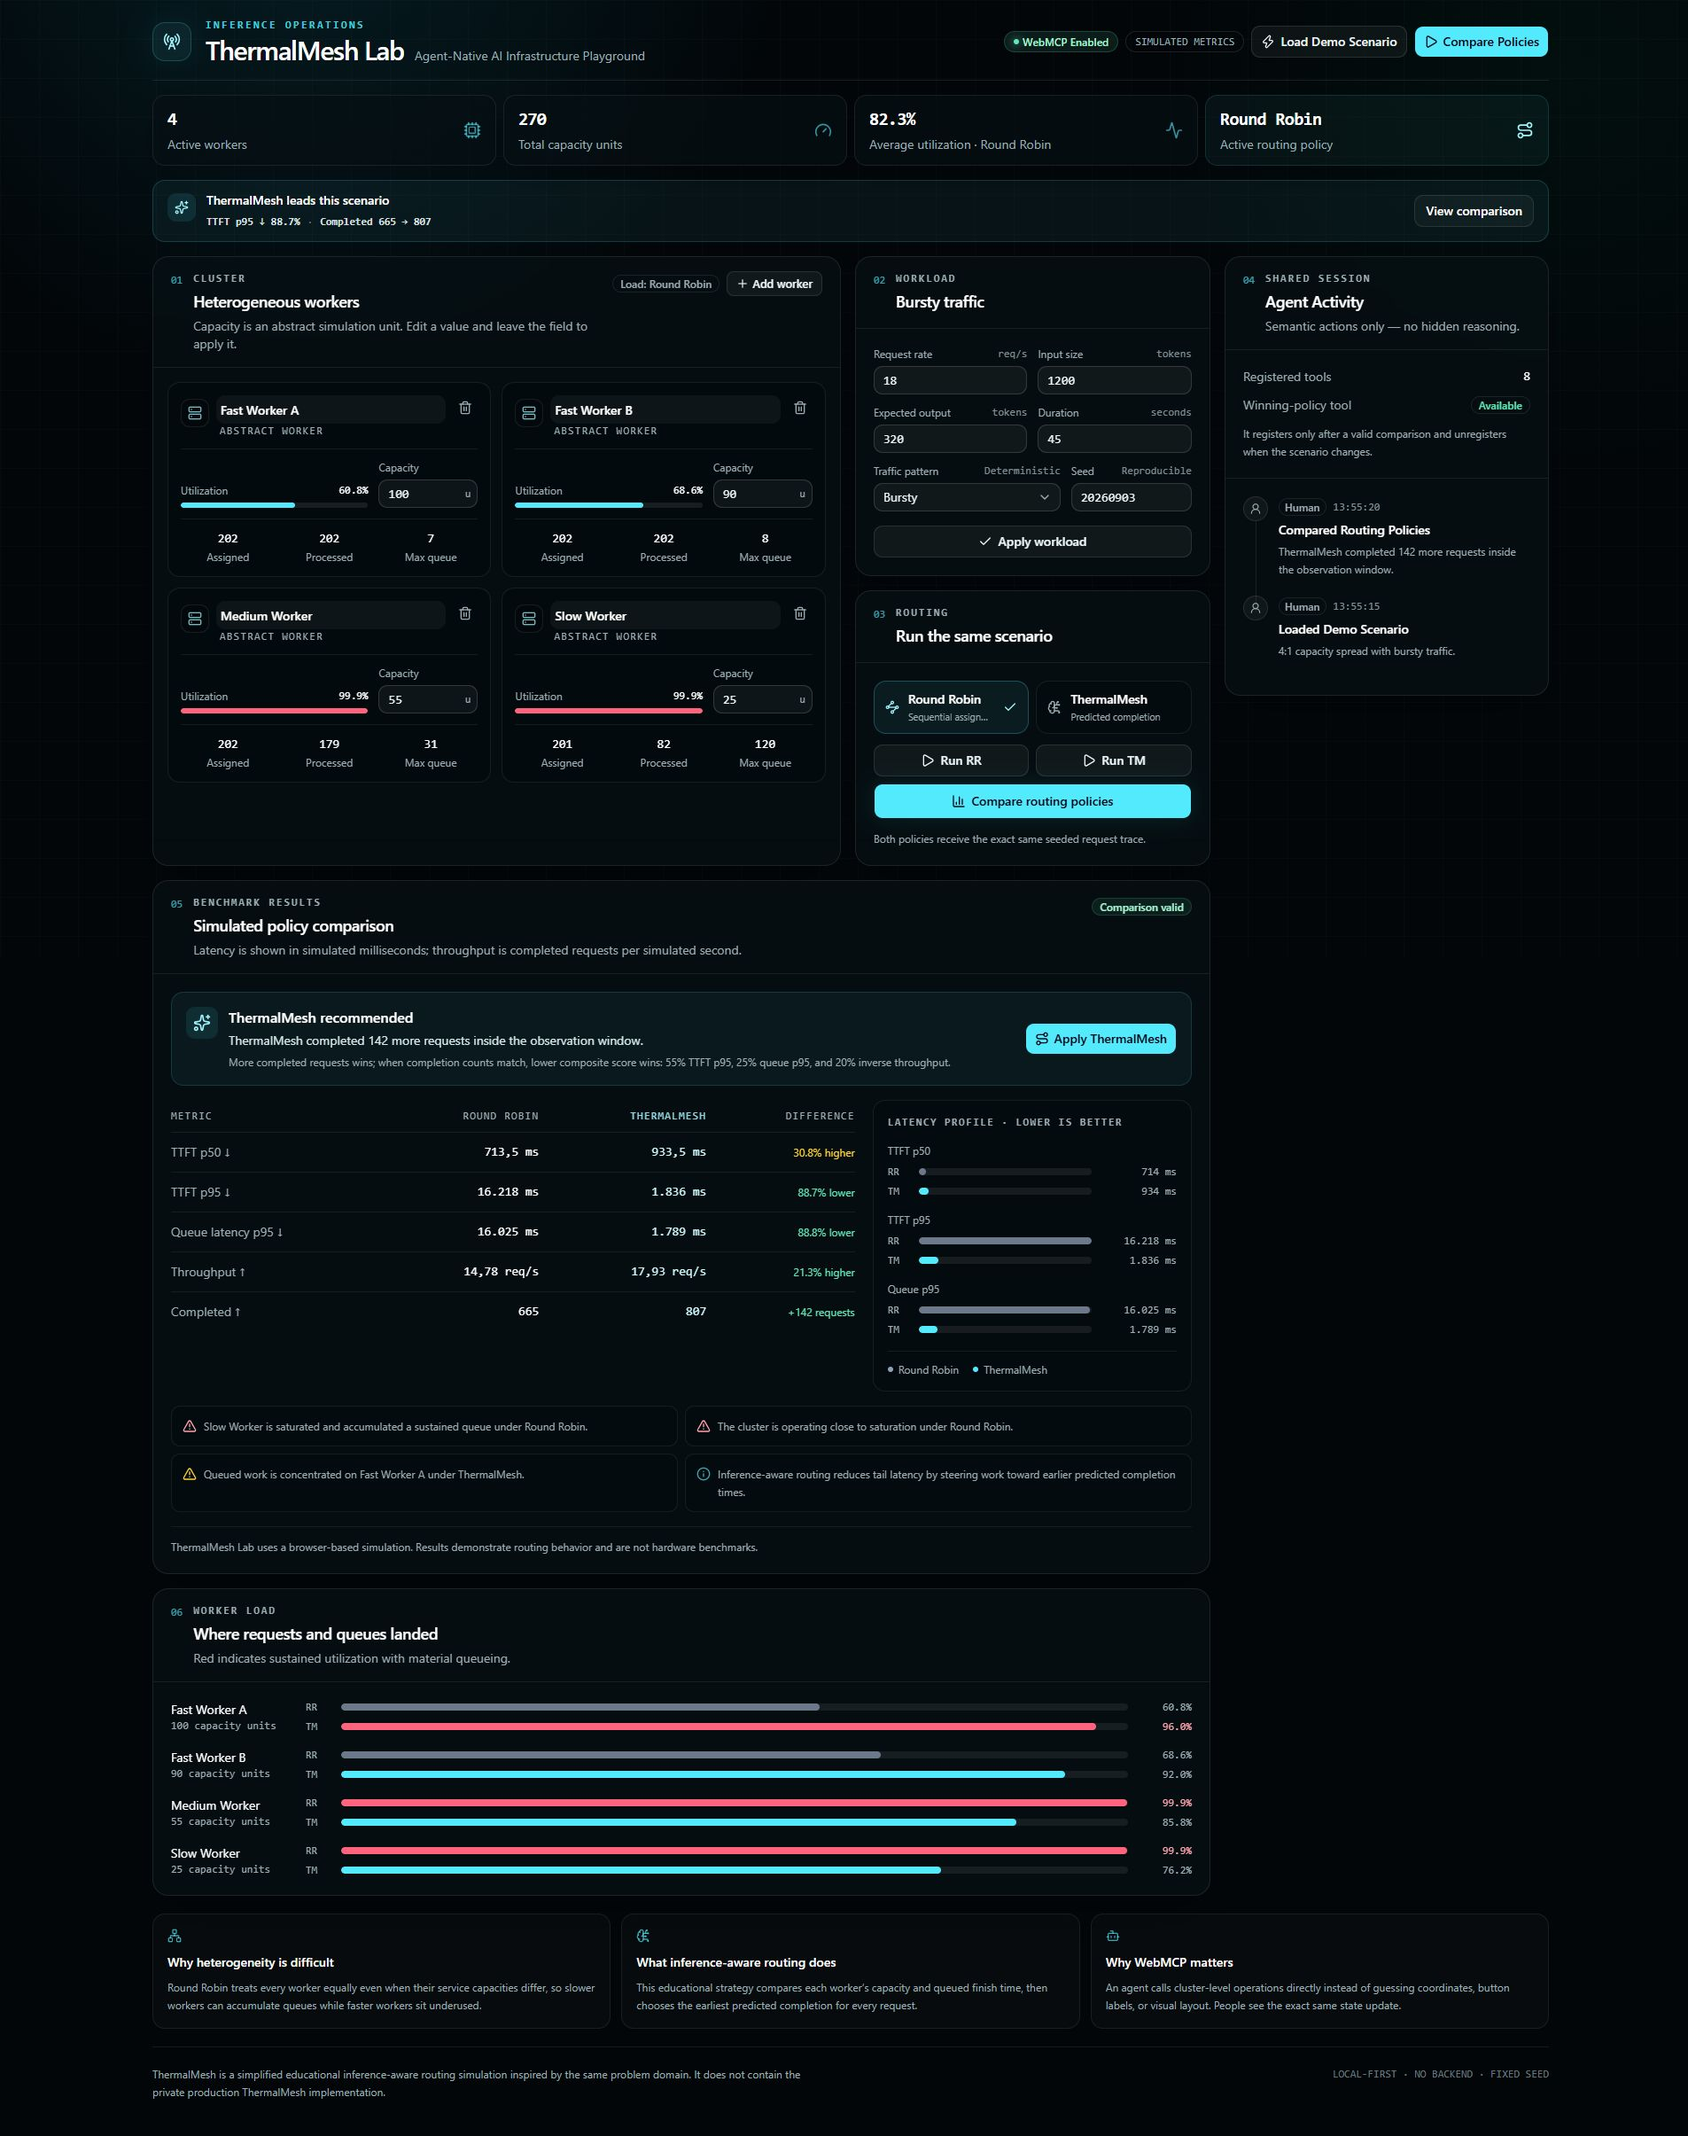
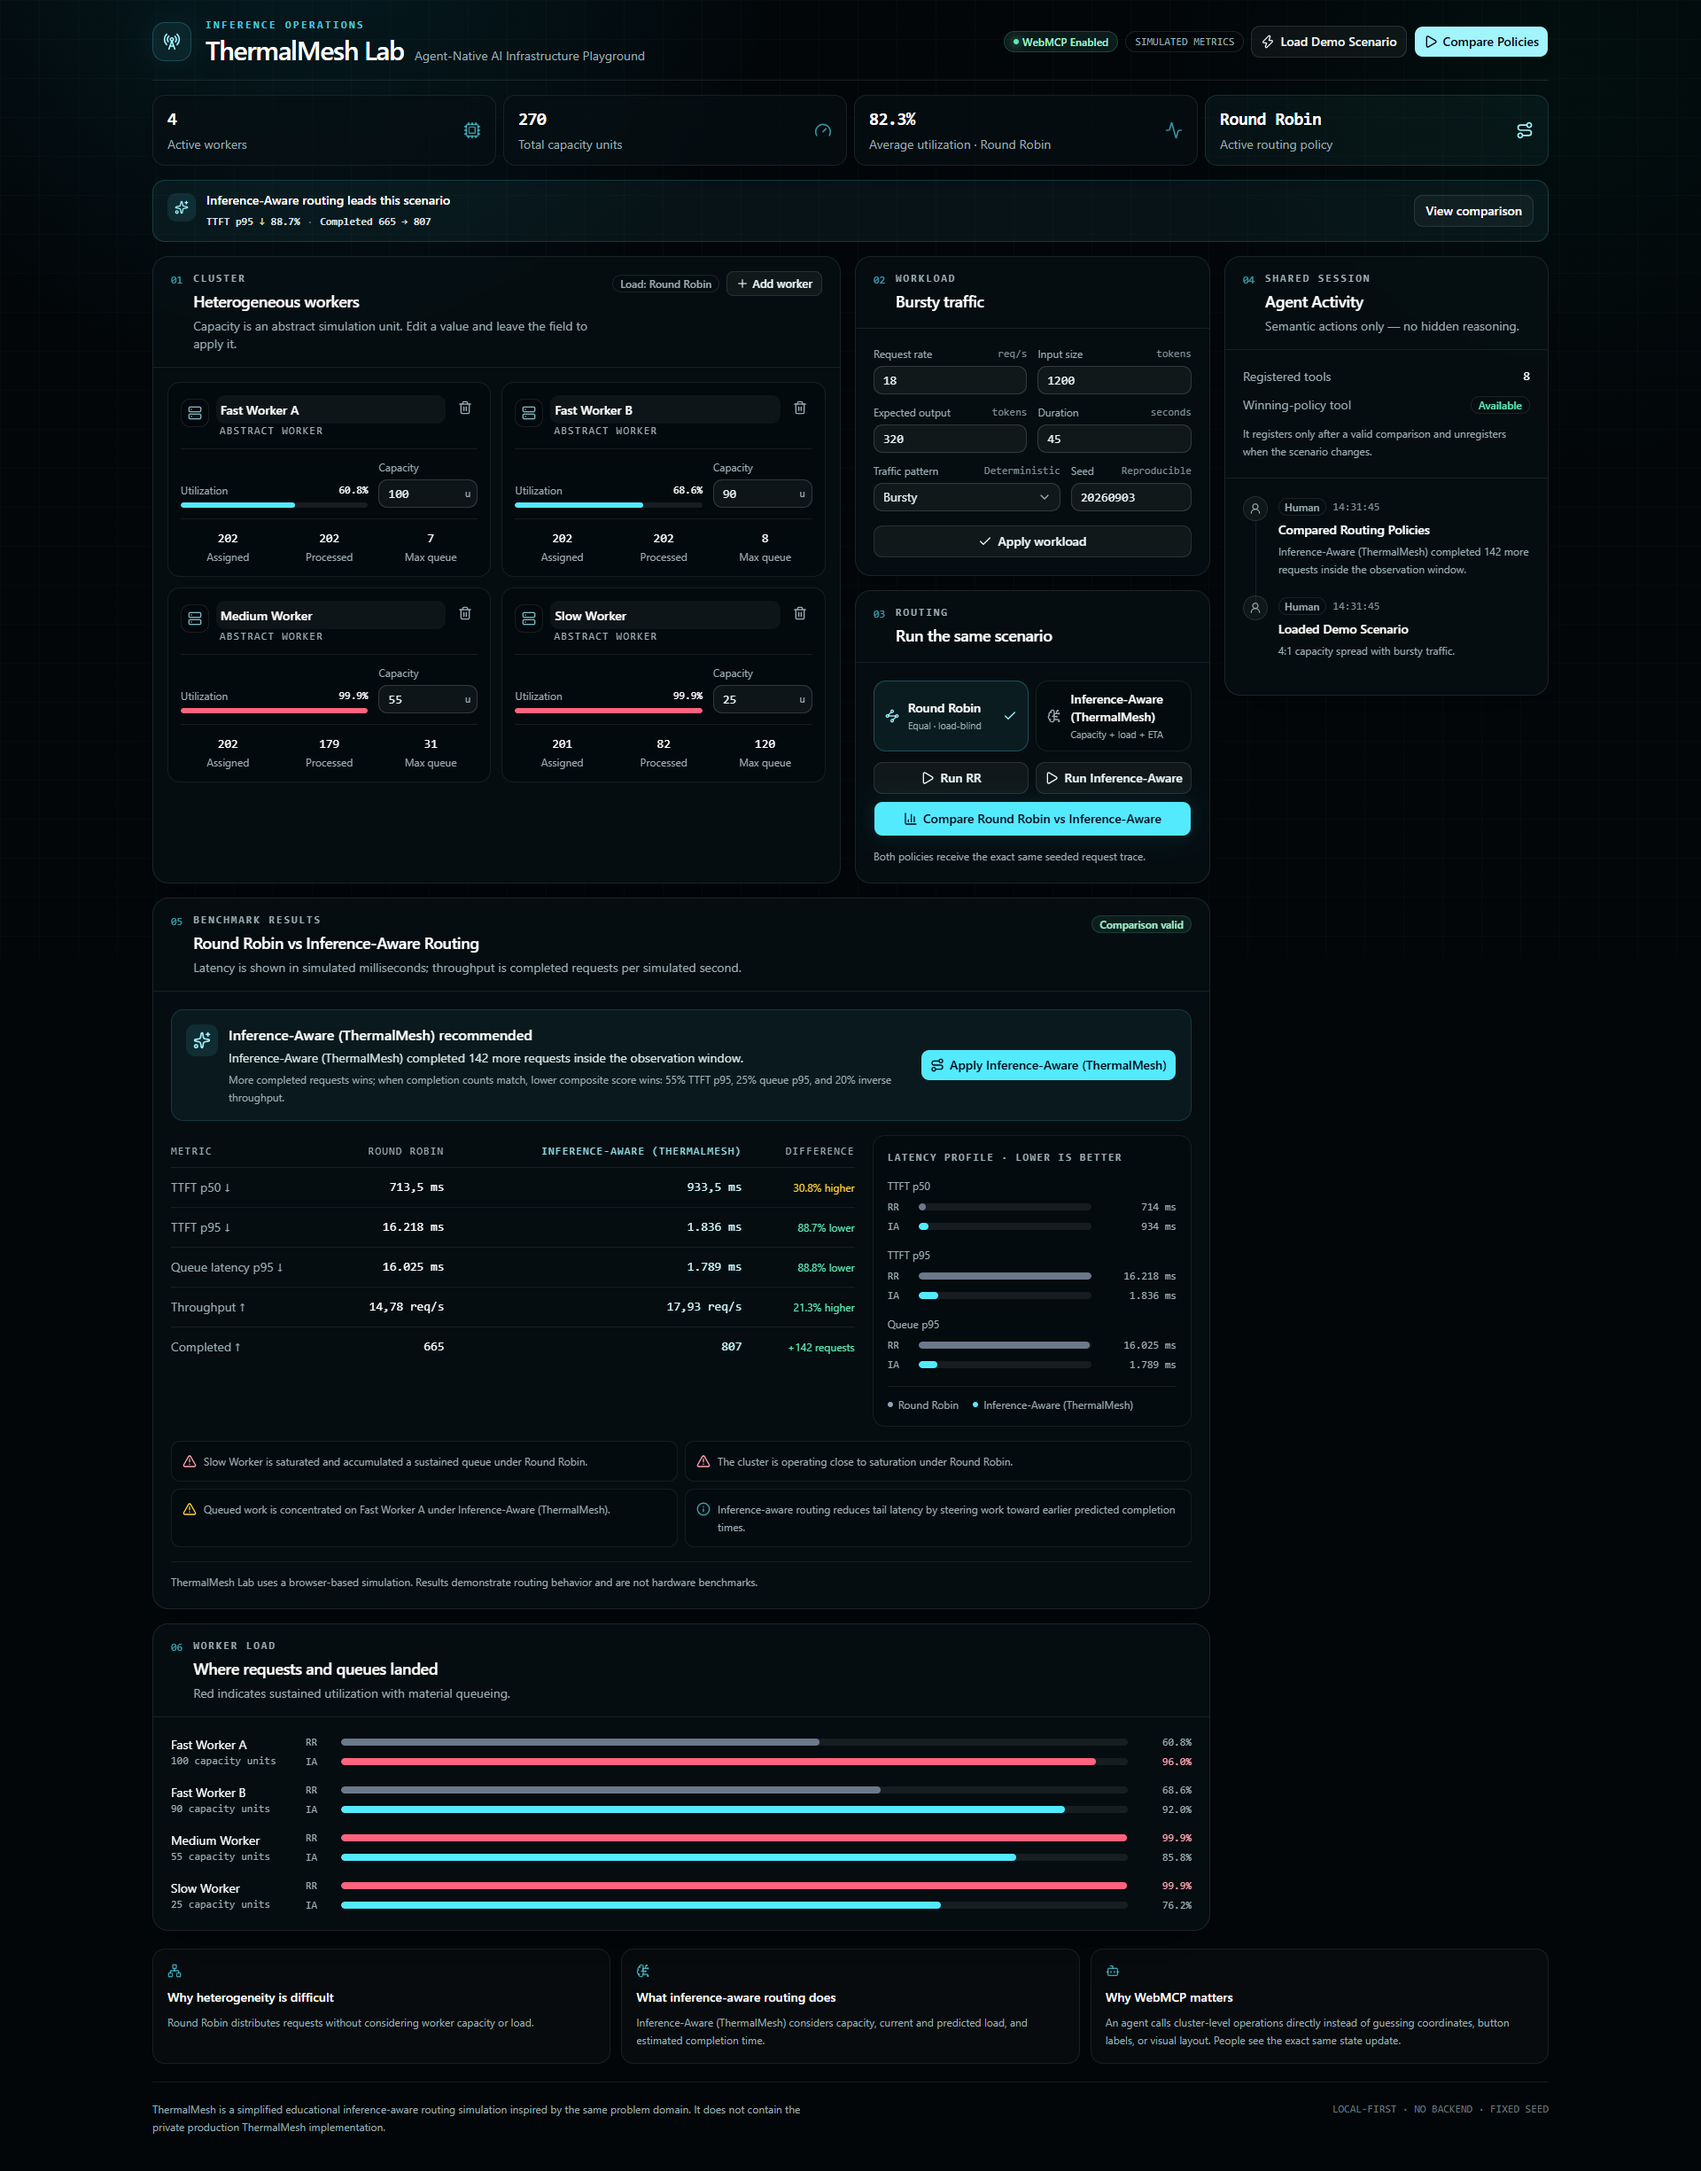
Clarify inference-aware routing terminology

diff --git a/src/App.tsx b/src/App.tsx
@@ -40,7 +40,6 @@ import {
   TableHeader,
   TableRow,
 } from '@/components/ui/table';
-import { policyLabel } from '@/src/domain/analysis';
 import { LIMITS } from '@/src/domain/validation';
 import { labStore } from '@/src/state/lab-store';
 import { useLabState } from '@/src/state/use-lab-store';
@@ -66,6 +65,16 @@ const BASE_TOOLS = [
   'apply_routing_policy',
 ];
 
+function policyLabel(policy: RoutingPolicy): string {
+  return policy === 'thermalmesh'
+    ? 'Inference-Aware (ThermalMesh)'
+    : 'Round Robin';
+}
+
+function displayPolicyTerms(text: string): string {
+  return text.replaceAll('ThermalMesh', 'Inference-Aware (ThermalMesh)');
+}
+
 function Panel({
   children,
   className = '',
@@ -89,7 +98,9 @@ function ComparisonPulse({ comparison }: { comparison: ComparisonResult }) {
   const winnerLabel =
     comparison.winner === 'tie'
       ? 'Policies score less than 1% apart'
-      : `${policyLabel(comparison.winner)} leads this scenario`;
+      : comparison.winner === 'thermalmesh'
+        ? 'Inference-Aware routing leads this scenario'
+        : 'Round Robin leads this scenario';
   const roundRobinMetrics = comparison.roundRobin.metrics;
   const thermalmeshMetrics = comparison.thermalmesh.metrics;
   const [otherMetrics, winnerMetrics] =
@@ -110,7 +121,7 @@ function ComparisonPulse({ comparison }: { comparison: ComparisonResult }) {
     comparison.winner === 'tie' &&
     roundRobinMetrics.ttftP95Ms !== null &&
     thermalmeshMetrics.ttftP95Ms !== null
-      ? `TTFT p95 RR ${formatMetric(roundRobinMetrics.ttftP95Ms, 'ms')} ↔ TM ${formatMetric(thermalmeshMetrics.ttftP95Ms, 'ms')}`
+      ? `TTFT p95 RR ${formatMetric(roundRobinMetrics.ttftP95Ms, 'ms')} ↔ IA ${formatMetric(thermalmeshMetrics.ttftP95Ms, 'ms')}`
       : tailPercent === null
         ? 'TTFT p95 not observed'
         : tailChanged
@@ -610,8 +621,8 @@ function RoutingControls({ state }: { state: LabState }) {
               <b>{policyLabel(policy)}</b>
               <small>
                 {policy === 'round_robin'
-                  ? 'Sequential assignment'
-                  : 'Predicted completion'}
+                  ? 'Equal · load-blind'
+                  : 'Capacity + load + ETA'}
               </small>
             </span>
             {state.activePolicy === policy ? (
@@ -635,7 +646,7 @@ function RoutingControls({ state }: { state: LabState }) {
           onClick={() => run('thermalmesh')}
           className="h-9 border-white/10 bg-white/[0.025]"
         >
-          <Play aria-hidden="true" /> Run TM
+          <Play aria-hidden="true" /> Run Inference-Aware
         </Button>
       </div>
       <Button
@@ -643,7 +654,7 @@ function RoutingControls({ state }: { state: LabState }) {
         onClick={() => labStore.compare({ actor: 'human' })}
         className="mt-2 h-10 w-full bg-cyan-300 text-slate-950 shadow-[0_0_24px_rgb(34_211_238/12%)] hover:bg-cyan-200"
       >
-        <BarChart3 aria-hidden="true" /> Compare routing policies
+        <BarChart3 aria-hidden="true" /> Compare Round Robin vs Inference-Aware
       </Button>
       {runError ? (
         <p className="mt-3 text-xs leading-5 text-rose-300" role="alert">
@@ -782,7 +793,7 @@ function ComparisonTable({ comparison }: { comparison: ComparisonResult }) {
             scope="col"
             className="h-9 text-right font-mono text-xs uppercase tracking-[0.1em] text-cyan-200/90"
           >
-            ThermalMesh
+            Inference-Aware (ThermalMesh)
           </TableHead>
           <TableHead
             scope="col"
@@ -875,7 +886,7 @@ function WinnerBanner({ comparison }: { comparison: ComparisonResult }) {
         <div>
           <p className="font-medium text-white">{label}</p>
           <p className="mt-1 text-sm leading-5 text-cyan-50/90">
-            {comparison.decisionReason}
+            {displayPolicyTerms(comparison.decisionReason)}
           </p>
           <p className="mt-1 text-xs leading-5 text-muted-foreground">
             {comparison.scoreSummary}
@@ -976,7 +987,7 @@ function LatencyBars({ comparison }: { comparison: ComparisonResult }) {
               tone="muted"
             />
             <ComparisonBar
-              label="TM"
+              label="IA"
               value={thermalmesh}
               width={thermalmesh === null ? 0 : (thermalmesh / max) * 100}
               tone="cyan"
@@ -989,7 +1000,8 @@ function LatencyBars({ comparison }: { comparison: ComparisonResult }) {
           <i className="size-1.5 rounded-full bg-slate-400" /> Round Robin
         </span>
         <span className="flex items-center gap-1.5">
-          <i className="size-1.5 rounded-full bg-cyan-300" /> ThermalMesh
+          <i className="size-1.5 rounded-full bg-cyan-300" /> Inference-Aware
+          (ThermalMesh)
         </span>
       </div>
     </div>
@@ -1059,7 +1071,7 @@ function WorkerLoadChart({
               />
               {other ? (
                 <LoadBar
-                  label="TM"
+                  label="IA"
                   value={other.utilization}
                   maxQueue={other.maxQueueDepth}
                   tone="cyan"
@@ -1129,7 +1141,7 @@ function ObservationList({ state }: { state: LabState }) {
             />
           )}
           <p className="text-xs leading-5 text-muted-foreground">
-            {observation.message}
+            {displayPolicyTerms(observation.message)}
           </p>
         </div>
       ))}
@@ -1263,7 +1275,7 @@ function ActivityItem({
           {entry.action}
         </p>
         <p className="mt-1 text-xs leading-5 text-muted-foreground">
-          {entry.detail}
+          {displayPolicyTerms(entry.detail)}
         </p>
       </div>
     </li>
@@ -1275,12 +1287,12 @@ function EducationSection() {
     {
       icon: Network,
       title: 'Why heterogeneity is difficult',
-      text: 'Round Robin treats every worker equally even when their service capacities differ, so slower workers can accumulate queues while faster workers sit underused.',
+      text: 'Round Robin distributes requests without considering worker capacity or load.',
     },
     {
       icon: BrainCircuit,
       title: 'What inference-aware routing does',
-      text: 'This educational strategy compares each worker’s capacity and queued finish time, then chooses the earliest predicted completion for every request.',
+      text: 'Inference-Aware (ThermalMesh) considers capacity, current and predicted load, and estimated completion time.',
     },
     {
       icon: Bot,
@@ -1517,7 +1529,7 @@ export default function App() {
               <PanelHeading
                 index="05"
                 eyebrow="Benchmark results"
-                title="Simulated policy comparison"
+                title="Round Robin vs Inference-Aware Routing"
                 detail="Latency is shown in simulated milliseconds; throughput is completed requests per simulated second."
                 action={
                   state.comparison ? (
@@ -1612,7 +1624,7 @@ export default function App() {
         </footer>
 
         <output className="sr-only" aria-live="polite" aria-atomic="true">
-          {state.notice}
+          {displayPolicyTerms(state.notice)}
         </output>
       </div>
     </main>
